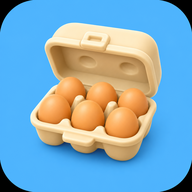
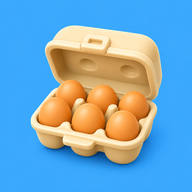
아이콘 재교체 + 배당 탭 고도화(월별 차트, AI 배당주기 추정)
- 새로 제공된 egg-icon.png로 icon-192.png/icon-512.png 재생성
- 종목별 "배당 지급월"(divMonths) 필드 추가, 배당 탭에서 종목마다
  1~12월 토글 칩으로 직접 선택하는 모달 제공
- 배당 탭에 "월별 예상 배당" SVG 막대 차트 추가: 각 종목의
  (수량*배당(연))을 설정된 지급월 수로 나눠 해당 월들에 분배해 12개월
  막대로 시각화
- "AI로 배당주기 확인" 버튼: Claude에게 종목명을 물어 지급월/주기/
  확신도를 추정받아 모달에 미리 채워줌. 단, AI 결과는 저장 버튼을
  눌러야만 실제 반영되고(자동 적용 아님), 확신도와 함께 "실제 지급
  내역과 비교해 확인하라"는 안내를 항상 노출해 잘못된 배당 정보가
  조용히 신뢰되지 않도록 설계

참고: Claude API는 실시간 웹 검색이 아니라 사전 학습 지식 기반 추정이라
정확도가 보장되지 않음 — UI 문구로 이 한계를 명시함.

검증: jsdom 14개 테스트(월별 계산 정확도, 모달 흐름, API키 미설정 차단,
AI 응답 파싱, 저장 전 미반영 확인) 전원 통과. 기존 회귀 테스트 6종
전원 통과.

diff --git a/index.html b/index.html
@@ -259,6 +259,14 @@
   }
   .div-input::-webkit-outer-spin-button,.div-input::-webkit-inner-spin-button{-webkit-appearance:none;margin:0;}
   .div-input[type=number]{appearance:textfield;-moz-appearance:textfield;}
+
+  .month-grid{display:grid;grid-template-columns:repeat(4,1fr);gap:6px;}
+  .month-chip{
+    padding:9px 0;text-align:center;border-radius:8px;border:1px solid var(--border);
+    background:var(--input-bg);color:var(--text-secondary);font-size:12.5px;font-family:var(--sans);
+    cursor:pointer;
+  }
+  .month-chip.selected{background:var(--accent);color:var(--accent-contrast);border-color:var(--accent);font-weight:700;}
 </style>
 </head>
 <body>
@@ -499,6 +507,20 @@
   </div>
 </div>
 
+<div class="modal-overlay" id="divMonthsModalOverlay">
+  <div class="modal-card">
+    <h3>배당 지급월 설정</h3>
+    <p style="font-size:12px;color:var(--text-secondary);margin:0 0 12px;line-height:1.5;">배당을 받는 달을 선택하세요. AI 추정은 참고용이니 실제 지급 내역과 비교해 조정해주세요.</p>
+    <div class="month-grid" id="monthGrid"></div>
+    <button class="pill-btn" id="divMonthsAiBtn" style="margin-top:12px;width:100%;">AI로 배당주기 확인</button>
+    <div id="divMonthsAiNote" style="font-size:11px;color:var(--text-secondary);margin-top:8px;line-height:1.5;"></div>
+    <div class="modal-actions" style="margin-top:14px;">
+      <button class="modal-btn cancel" id="divMonthsModalCancel">취소</button>
+      <button class="modal-btn confirm" id="divMonthsModalSave">저장</button>
+    </div>
+  </div>
+</div>
+
 <div class="modal-overlay" id="goalModalOverlay">
   <div class="modal-card">
     <h3 id="goalModalTitle">목표 금액 설정</h3>
@@ -673,6 +695,50 @@ async function parseTransactionWithAI(text){
   const data = await res.json();
   const toolBlock = (data.content||[]).find(b=>b.type==='tool_use');
   if(!toolBlock) throw new Error('AI가 정보를 추출하지 못했어요');
+  return toolBlock.input;
+}
+
+async function lookupDividendCycle(name){
+  const apiKey = getClaudeKey();
+  if(!apiKey) throw new Error('NO_KEY');
+  const res = await fetch('https://api.anthropic.com/v1/messages', {
+    method: 'POST',
+    headers: {
+      'x-api-key': apiKey,
+      'anthropic-version': '2023-06-01',
+      'anthropic-dangerous-direct-browser-access': 'true',
+      'content-type': 'application/json'
+    },
+    body: JSON.stringify({
+      model: 'claude-haiku-4-5-20251001',
+      max_tokens: 300,
+      tools: [{
+        name: 'dividend_schedule',
+        description: '주식 종목의 일반적인 배당 지급 주기(월)을 반환한다',
+        input_schema: {
+          type: 'object',
+          properties: {
+            months: { type: 'array', items: { type: 'number' }, description: '배당을 지급하는 월(1~12) 목록. 확실하지 않으면 빈 배열' },
+            frequency: { type: 'string', description: '예: 분기배당, 반기배당, 연배당, 월배당, 무배당/알수없음' },
+            confidence: { type: 'string', enum: ['high','medium','low'], description: '이 추정의 확신도' }
+          },
+          required: ['months','frequency','confidence']
+        }
+      }],
+      tool_choice: { type: 'tool', name: 'dividend_schedule' },
+      messages: [{
+        role: 'user',
+        content: `"${name}" 이라는 주식 종목의 일반적인 배당 지급 월과 주기를 알려줘. 확실히 아는 정보가 아니면 정직하게 confidence를 low로 표시하고 months는 빈 배열로 해줘.`
+      }]
+    })
+  });
+  if(!res.ok){
+    const body = await res.json().catch(()=>({}));
+    throw new Error(body?.error?.message || `요청 실패 (${res.status})`);
+  }
+  const data = await res.json();
+  const toolBlock = (data.content||[]).find(b=>b.type==='tool_use');
+  if(!toolBlock) throw new Error('AI가 정보를 추정하지 못했어요');
   return toolBlock.input;
 }
 function setSyncStatus(text){
@@ -877,6 +943,35 @@ function totalAssetValue(){
   return state.holdings.reduce((s,h)=>s+h.shares*h.currentPrice,0);
 }
 
+function monthlyDividendBreakdown(){
+  const monthly = Array(12).fill(0);
+  state.holdings.forEach(h=>{
+    const months = h.divMonths || [];
+    if(!months.length || !h.divAnnual) return;
+    const perPayment = h.shares * h.divAnnual / months.length;
+    months.forEach(m=>{ if(m>=1 && m<=12) monthly[m-1] += perPayment; });
+  });
+  return monthly;
+}
+
+function renderMonthlyDividendChart(){
+  const monthly = monthlyDividendBreakdown();
+  const max = Math.max(...monthly, 1);
+  const accent = cssVar('--accent') || '#1DB954';
+  const mutedColor = cssVar('--text-secondary') || '#B3B3B3';
+  const w = 320, h = 130, barAreaH = 96, barW = 18, gap = (w - barW*12) / 13;
+  let svg = `<svg viewBox="0 0 ${w} ${h}" style="width:100%;display:block;">`;
+  monthly.forEach((val, i)=>{
+    const barH = (val/max) * barAreaH;
+    const x = gap + i*(barW+gap);
+    const y = barAreaH - barH;
+    svg += `<rect x="${x}" y="${y}" width="${barW}" height="${Math.max(barH,1)}" rx="3" fill="${accent}" opacity="${val>0?1:0.25}"><title>${i+1}월 ₩${fmt(val)}</title></rect>`;
+    svg += `<text x="${x+barW/2}" y="${barAreaH+16}" text-anchor="middle" font-size="9" fill="${mutedColor}" font-family="-apple-system,sans-serif">${i+1}</text>`;
+  });
+  svg += `</svg>`;
+  return svg;
+}
+
 function renderDividendTab(){
   const container = document.getElementById('dividendContent');
   const totalValue = totalAssetValue();
@@ -907,6 +1002,11 @@ function renderDividendTab(){
       <div class="cell"><div class="label">평균 배당수익률</div><div class="value">${avgYield.toFixed(2)}%</div></div>
     </div>
     <div class="card">
+      <p class="card-title">월별 예상 배당</p>
+      ${renderMonthlyDividendChart()}
+      <p style="font-size:11px;color:var(--text-secondary);margin-top:4px;">종목별 "배당주기"를 설정해야 해당 월에 반영돼요.</p>
+    </div>
+    <div class="card">
       <p class="card-title">종목별 배당</p>
       ${rows.map(r=>`
         <div class="div-item">
@@ -921,6 +1021,9 @@ function renderDividendTab(){
             </div>
             <div class="chip"><span class="clabel">연간 배당금액</span><span class="cval">₩${fmt(r.annual)}</span></div>
           </div>
+          <button class="pill-btn div-months-btn" data-id="${holdingId(r.h.account,r.h.ticker)}" style="margin-top:10px;">
+            배당주기 ${r.h.divMonths && r.h.divMonths.length ? '· '+r.h.divMonths.join(',')+'월' : '설정 안 됨'}
+          </button>
         </div>
       `).join('')}
     </div>
@@ -933,6 +1036,12 @@ function renderDividendTab(){
       if(!h || isNaN(val) || val<0){ showToast('배당금을 확인해주세요'); render(); return; }
       h.divAnnual = val;
       render();
+    });
+  });
+  container.querySelectorAll('.div-months-btn').forEach(btn=>{
+    btn.addEventListener('click', e=>{
+      const h = state.holdings.find(x=>holdingId(x.account,x.ticker)===e.currentTarget.dataset.id);
+      if(h) openDivMonthsModal(h);
     });
   });
 }
@@ -1033,6 +1142,69 @@ function renderGoalArchive(){
     </div>
   `;
 }
+
+let divMonthsEditingId = null;
+let divMonthsSelected = [];
+function renderMonthGrid(){
+  const grid = document.getElementById('monthGrid');
+  grid.innerHTML = Array.from({length:12},(_,i)=>i+1).map(m=>
+    `<button type="button" class="month-chip ${divMonthsSelected.includes(m)?'selected':''}" data-month="${m}">${m}월</button>`
+  ).join('');
+  grid.querySelectorAll('.month-chip').forEach(btn=>{
+    btn.addEventListener('click', ()=>{
+      const m = Number(btn.dataset.month);
+      if(divMonthsSelected.includes(m)) divMonthsSelected = divMonthsSelected.filter(x=>x!==m);
+      else divMonthsSelected.push(m);
+      renderMonthGrid();
+    });
+  });
+}
+function openDivMonthsModal(h){
+  divMonthsEditingId = holdingId(h.account, h.ticker);
+  divMonthsSelected = (h.divMonths||[]).slice();
+  document.getElementById('divMonthsAiNote').textContent = '';
+  renderMonthGrid();
+  document.getElementById('divMonthsModalOverlay').classList.add('show');
+}
+function closeDivMonthsModal(){
+  document.getElementById('divMonthsModalOverlay').classList.remove('show');
+  divMonthsEditingId = null;
+}
+document.getElementById('divMonthsModalCancel').addEventListener('click', closeDivMonthsModal);
+document.getElementById('divMonthsModalOverlay').addEventListener('click', e=>{
+  if(e.target.id==='divMonthsModalOverlay') closeDivMonthsModal();
+});
+document.getElementById('divMonthsModalSave').addEventListener('click', ()=>{
+  const h = state.holdings.find(x=>holdingId(x.account,x.ticker)===divMonthsEditingId);
+  if(h){
+    h.divMonths = divMonthsSelected.slice().sort((a,b)=>a-b);
+    showToast('배당 지급월을 저장했어요');
+    render();
+  }
+  closeDivMonthsModal();
+});
+document.getElementById('divMonthsAiBtn').addEventListener('click', async ()=>{
+  const h = state.holdings.find(x=>holdingId(x.account,x.ticker)===divMonthsEditingId);
+  if(!h) return;
+  if(!getClaudeKey()){ showToast('설정 탭에서 Claude API 키를 먼저 등록해주세요'); return; }
+  const btn = document.getElementById('divMonthsAiBtn');
+  const prevLabel = btn.textContent;
+  btn.disabled = true;
+  btn.textContent = '확인 중...';
+  try{
+    const result = await lookupDividendCycle(h.name);
+    divMonthsSelected = (result.months||[]).filter(m=>m>=1 && m<=12);
+    renderMonthGrid();
+    const confMap = { high:'높음', medium:'보통', low:'낮음' };
+    document.getElementById('divMonthsAiNote').textContent =
+      `AI 추정: ${result.frequency} (확신도: ${confMap[result.confidence]||result.confidence}) — 실제 지급 내역과 비교해서 확인 후 저장해주세요.`;
+  }catch(e){
+    showToast(e.message === 'NO_KEY' ? 'API 키를 확인해주세요' : ('AI 조회 실패: ' + e.message));
+  }finally{
+    btn.disabled = false;
+    btn.textContent = prevLabel;
+  }
+});
 
 let goalModalMode = 'set';
 function openGoalModal(prefill, isNext){